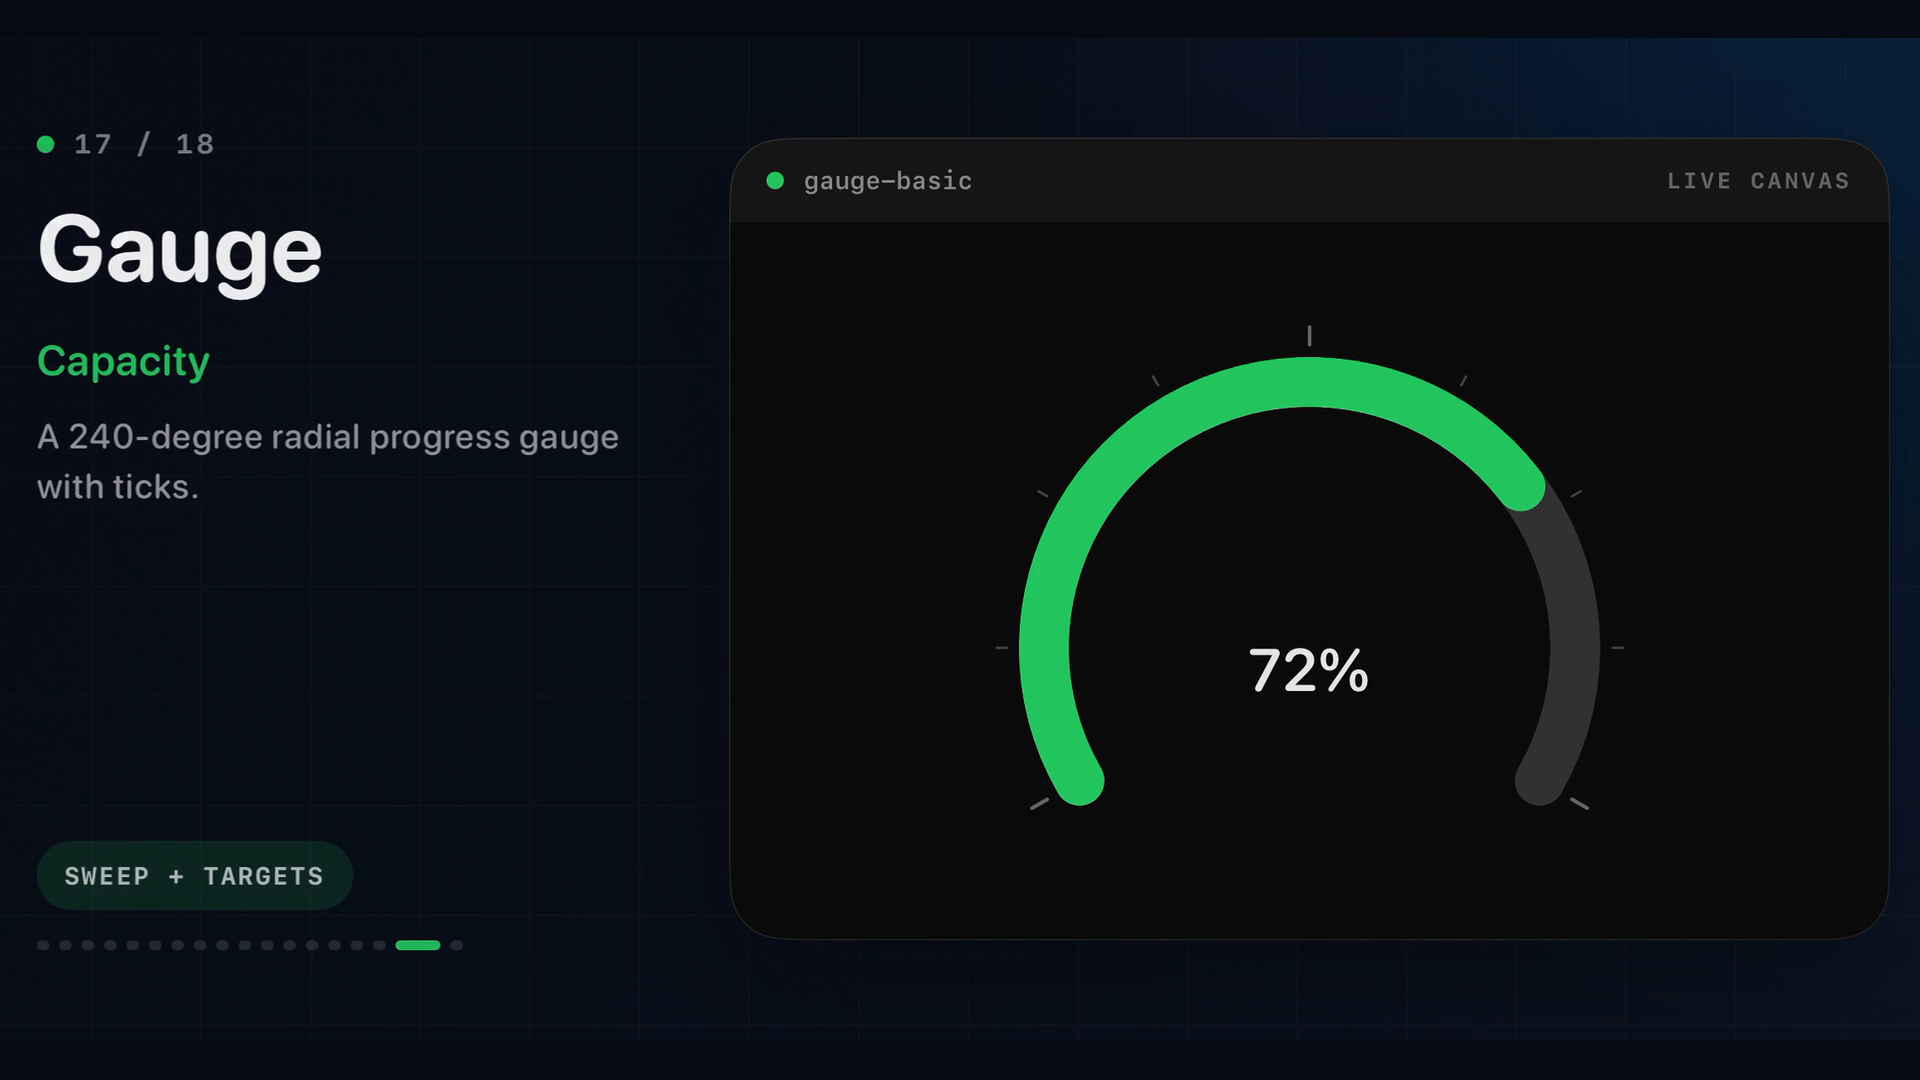
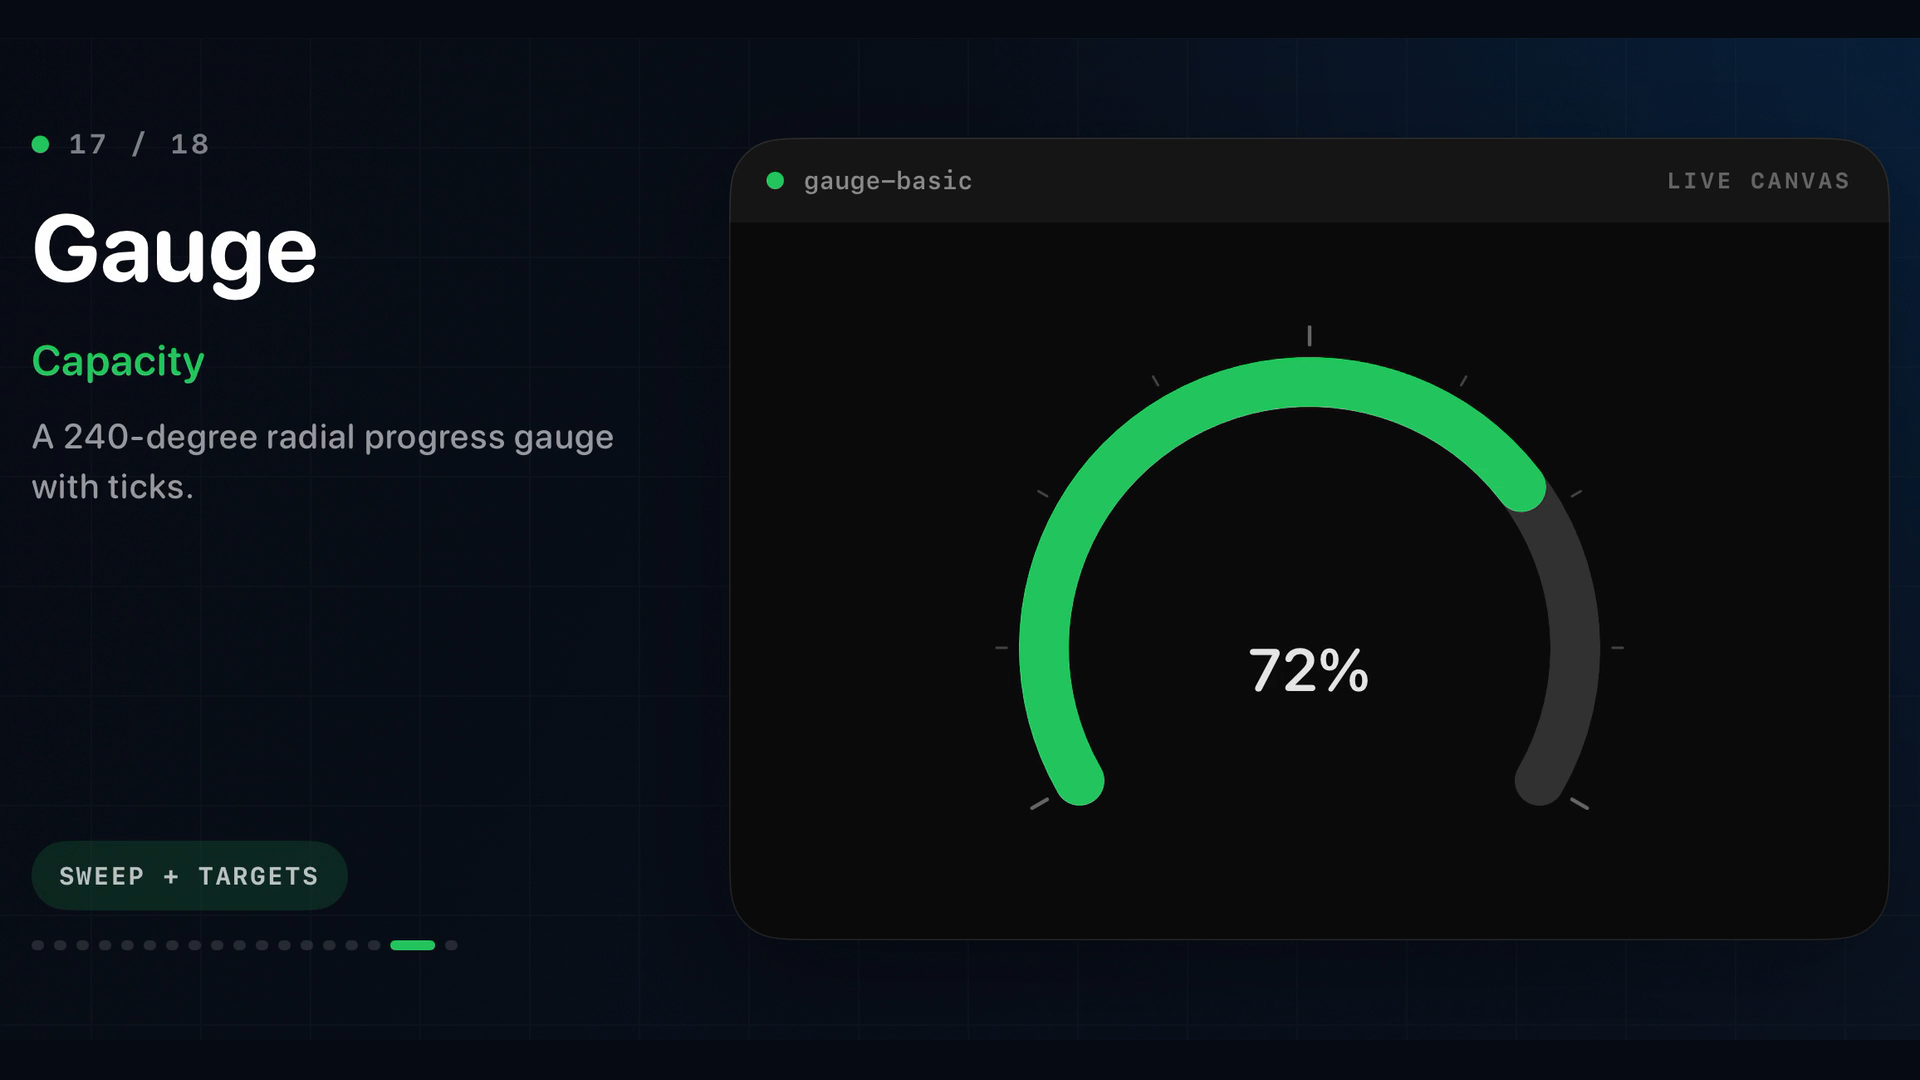
Cut showcase slides without panel motion

diff --git a/Examples/LivelineDemo/Sources/ChartShowcaseView.swift b/Examples/LivelineDemo/Sources/ChartShowcaseView.swift
@@ -10,7 +10,6 @@ struct ChartShowcaseView: View {
 
     @State private var phase: Phase = .intro
     @State private var sceneIndex = 0
-    @State private var reveal = 0.0
     @State private var introVisible = false
     @State private var outroVisible = false
     @State private var started = false
@@ -153,8 +152,6 @@ struct ChartShowcaseView: View {
                 }
                 .frame(width: min(250, size.width * 0.29), alignment: .leading)
                 .padding(.vertical, 8)
-                .offset(x: 18 * (1 - reveal))
-                .opacity(0.35 + 0.65 * reveal)
 
                 VStack(spacing: 0) {
                     HStack(spacing: 8) {
@@ -238,16 +235,7 @@ struct ChartShowcaseView: View {
 
         for index in scenes.indices {
             sceneIndex = index
-            reveal = 0
-            await pause(0.12)
-            withAnimation(.easeOut(duration: 0.72)) {
-                reveal = 1
-            }
-            await pause(1.18)
-            withAnimation(.easeIn(duration: 0.20)) {
-                reveal = 0
-            }
-            await pause(0.24)
+            await pause(1.54)
         }
 
         withAnimation(.easeInOut(duration: 0.36)) {